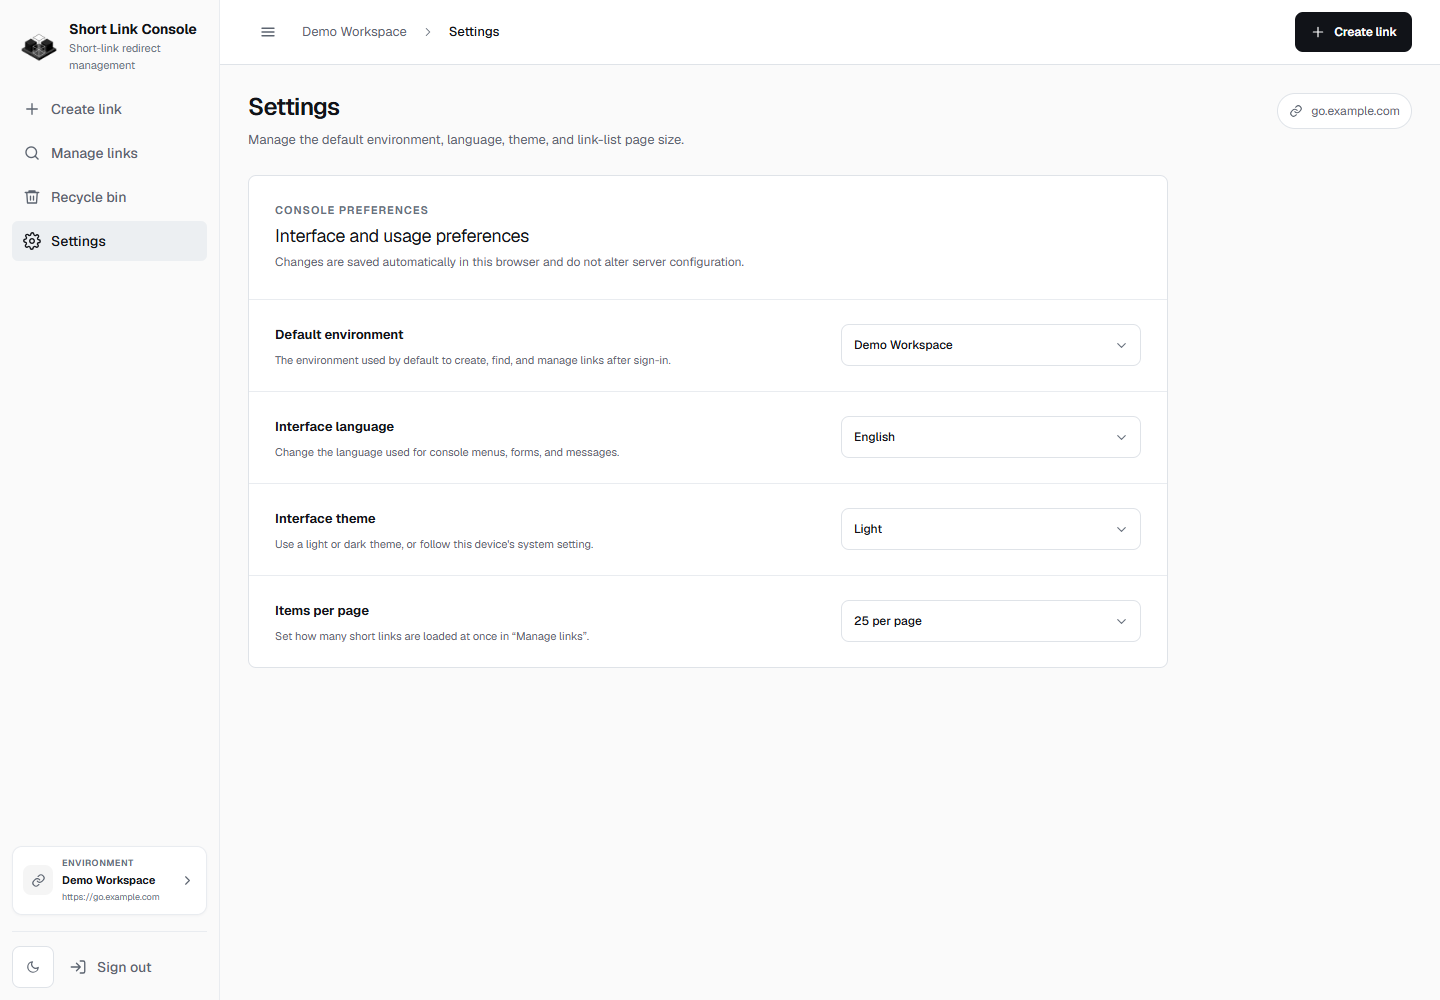
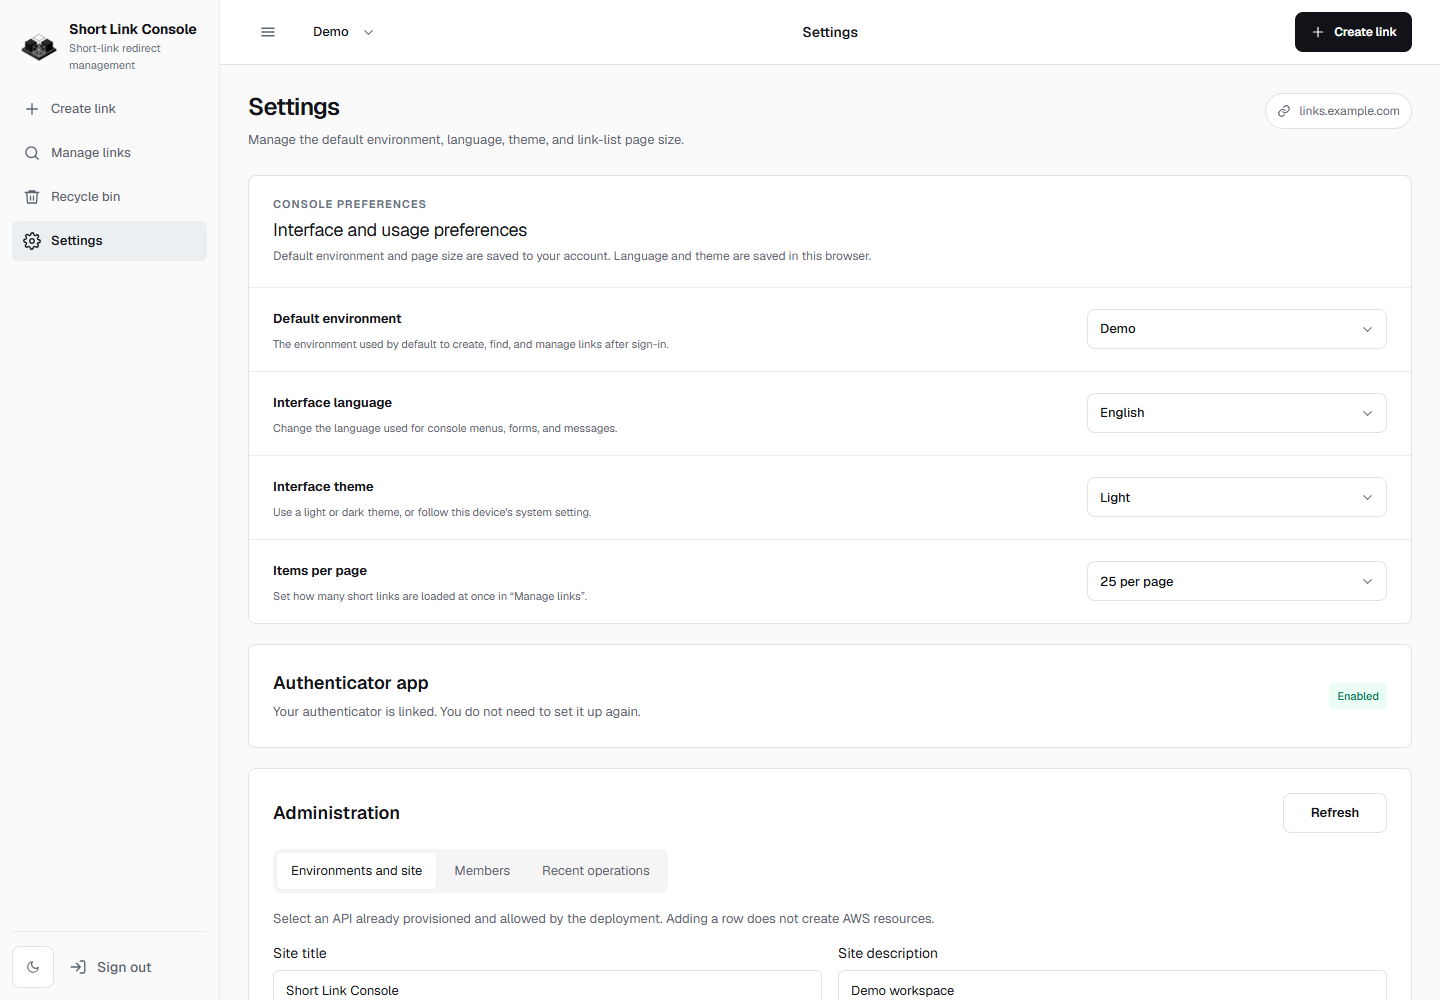
docs: refresh bilingual console screenshots and gallery descriptions

diff --git a/docs/console-preview.en.md b/docs/console-preview.en.md
@@ -2,7 +2,7 @@
 
 [Back to README](../README.md) | [简体中文](console-preview.zh-CN.md)
 
-Captured on 2026-09-11 from the local application with demo data. Domains, dates, and statuses are illustrative, not production metrics. Desktop viewport: 1440 × 1000; mobile: 390 × 844. Screenshots use the English console interface.
+Captured on 2026-09-19 from the local application with demo data. Domains, dates, and statuses are illustrative, not production metrics. Desktop viewport: 1440 × 1000; mobile: 390 × 844. Screenshots use the English console interface.
 
 ## Link management
 
@@ -30,7 +30,7 @@ Review soft-deleted records and restore them within retention; expired links nee
 
 ## Console settings
 
-Choose the default environment, language, theme, and page size. Preferences are saved in the current browser.
+Choose the default environment, language, theme, and page size. The default environment and page size are saved to your account; language and theme are saved in the current browser. Authenticator status is shown below these preferences.
 
 ![Console settings](images/en/console-settings.png)
 
@@ -42,7 +42,7 @@ Status badges remain distinct in the dark theme.
 
 ## Mobile layout
 
-Narrow screens use link cards and collapsible navigation.
+Narrow screens use link cards and collapsible navigation. The mobile header keeps the page title centered; the desktop environment switcher is hidden.
 
 <img src="images/en/console-mobile.png" alt="Mobile layout" width="390" />
 

diff --git a/docs/console-preview.zh-CN.md b/docs/console-preview.zh-CN.md
@@ -2,7 +2,7 @@
 
 [返回 README](../README.zh-CN.md) | [English](console-preview.en.md)
 
-截图于 2026-09-11 使用本地界面和演示数据拍摄。域名均为示例地址，状态与日期用于展示；不代表生产环境统计。桌面视口为 1440 × 1000，移动端为 390 × 844。
+截图于 2026-09-19 使用本地界面和演示数据拍摄。域名均为示例地址，状态与日期用于展示；不代表生产环境统计。桌面视口为 1440 × 1000，移动端为 390 × 844。
 
 ## 链接管理
 
@@ -30,7 +30,7 @@
 
 ## 控制台设置
 
-调整默认环境、语言、主题和每页数量，偏好保存在当前浏览器。
+调整默认环境、语言、主题和每页数量。默认环境和每页数量保存到账户，语言与主题保存在当前浏览器；偏好设置下方显示验证器绑定状态。
 
 ![控制台设置](images/zh-CN/console-settings.png)
 
@@ -42,7 +42,7 @@
 
 ## 移动端
 
-窄屏下使用卡片列表和折叠导航。
+窄屏下使用卡片列表和折叠导航，顶部标题居中，不显示桌面端的环境切换栏。
 
 <img src="images/zh-CN/console-mobile.png" alt="移动端" width="390" />
 
